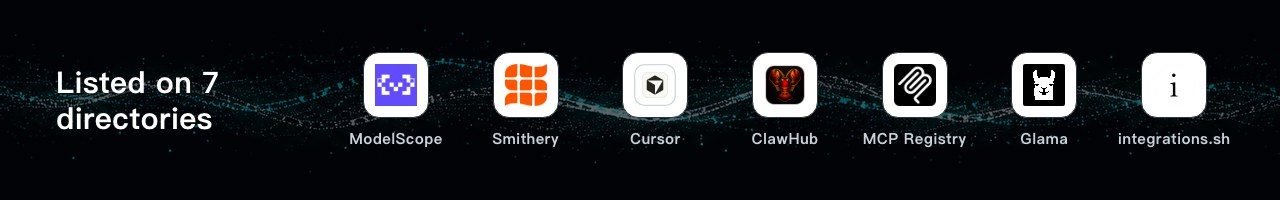
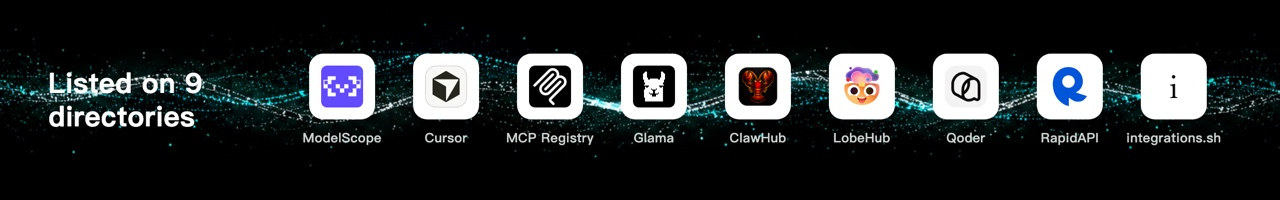
Profile: listed on 9 directories — drop Smithery, add LobeHub, Qoder, RapidAPI

Changed region(s): [[0.0, 0.24, 1.0, 0.75], [0.9062, 0.24, 0.9375, 0.27], [0.5, 0.24, 0.5312, 0.27]]

diff --git a/profile/README.zh-CN.md b/profile/README.zh-CN.md
@@ -37,10 +37,10 @@ claude mcp add --transport http everyinfra https://api.everyinfra.com/mcp \
 <picture>
   <source media="(prefers-color-scheme: dark)" srcset="assets/listed-zh-dark.jpg">
   <source media="(prefers-color-scheme: light)" srcset="assets/listed-zh-light.jpg">
-  <img alt="已上架 7 家平台: ModelScope, Smithery, Cursor, ClawHub, MCP Registry, Glama, integrations.sh" src="assets/listed-zh-light.jpg" width="100%">
+  <img alt="已上架 9 家平台: ModelScope, Cursor, MCP Registry, Glama, ClawHub, LobeHub, Qoder, RapidAPI, integrations.sh" src="assets/listed-zh-light.jpg" width="100%">
 </picture>
 
-<p align="center"><a href="https://modelscope.cn/mcp/servers/xiaoyuaimaomao/EveryInfra"><img src="assets/launch-cards/modelscope-zh.webp" width="33.33%" alt="EveryInfra 已上架 ModelScope"></a><a href="https://smithery.ai/servers/everyinfra/api"><img src="assets/launch-cards/smithery-zh.webp" width="33.33%" alt="EveryInfra 已上架 Smithery"></a><a href="https://cursor.directory/plugins/everyinfra-tiktok-instagram-amazon-data"><img src="assets/launch-cards/cursor-zh.webp" width="33.33%" alt="EveryInfra 已上架 Cursor Directory"></a><a href="https://clawhub.ai/skills/everyinfra"><img src="assets/launch-cards/clawhub-zh.webp" width="33.33%" alt="EveryInfra 已上架 ClawHub"></a><a href="https://registry.modelcontextprotocol.io/v0/servers?search=everyinfra"><img src="assets/launch-cards/mcp-registry-zh.webp" width="33.33%" alt="EveryInfra 已上架 MCP Registry"></a><a href="https://glama.ai/mcp/connectors/io.github.xiaoxihexiaoyu/everyinfra"><img src="assets/launch-cards/glama-zh.webp" width="33.33%" alt="EveryInfra 已上架 Glama"></a><a href="https://integrations.sh/everyinfra.com"><img src="assets/launch-cards/integrations-sh-zh.webp" width="33.33%" alt="EveryInfra 已上架 integrations.sh"></a></p>
+<p align="center"><a href="https://modelscope.cn/mcp/servers/xiaoyuaimaomao/EveryInfra"><img src="assets/launch-cards/modelscope-zh.webp" width="33.33%" alt="EveryInfra 已上架 ModelScope"></a><a href="https://cursor.directory/plugins/everyinfra-tiktok-instagram-amazon-data"><img src="assets/launch-cards/cursor-zh.webp" width="33.33%" alt="EveryInfra 已上架 Cursor Directory"></a><a href="https://clawhub.ai/skills/everyinfra"><img src="assets/launch-cards/clawhub-zh.webp" width="33.33%" alt="EveryInfra 已上架 ClawHub"></a><a href="https://registry.modelcontextprotocol.io/v0/servers?search=everyinfra"><img src="assets/launch-cards/mcp-registry-zh.webp" width="33.33%" alt="EveryInfra 已上架 MCP Registry"></a><a href="https://glama.ai/mcp/connectors/io.github.xiaoxihexiaoyu/everyinfra"><img src="assets/launch-cards/glama-zh.webp" width="33.33%" alt="EveryInfra 已上架 Glama"></a><a href="https://lobehub.com/zh/mcp/everyinfra"><img src="assets/launch-cards/lobehub-zh.webp" width="33.33%" alt="EveryInfra 已上架 LobeHub"></a><a href="https://qoder.com/en/marketplace/skill?id=ed671cc1-a1c5-400e-9179-9fa7c097a3da"><img src="assets/launch-cards/qoder-zh.webp" width="33.33%" alt="EveryInfra 已上架 Qoder"></a><a href="https://rapidapi.com/xiaoxihexiaoyu/api/xiaohongshu-rednote-scraper-api"><img src="assets/launch-cards/rapidapi-zh.webp" width="33.33%" alt="EveryInfra 已上架 RapidAPI"></a><a href="https://integrations.sh/everyinfra.com"><img src="assets/launch-cards/integrations-sh-zh.webp" width="33.33%" alt="EveryInfra 已上架 integrations.sh"></a></p>
 
 ## 实时数字与活跃度
 

diff --git a/profile/README.es.md b/profile/README.es.md
@@ -37,10 +37,10 @@ claude mcp add --transport http everyinfra https://api.everyinfra.com/mcp \
 <picture>
   <source media="(prefers-color-scheme: dark)" srcset="assets/listed-es-dark.jpg">
   <source media="(prefers-color-scheme: light)" srcset="assets/listed-es-light.jpg">
-  <img alt="Disponible en 7 directorios: ModelScope, Smithery, Cursor, ClawHub, MCP Registry, Glama, integrations.sh" src="assets/listed-es-light.jpg" width="100%">
+  <img alt="Disponible en 9 directorios: ModelScope, Cursor, MCP Registry, Glama, ClawHub, LobeHub, Qoder, RapidAPI, integrations.sh" src="assets/listed-es-light.jpg" width="100%">
 </picture>
 
-<p align="center"><a href="https://modelscope.cn/mcp/servers/xiaoyuaimaomao/EveryInfra"><img src="assets/launch-cards/modelscope-es.webp" width="33.33%" alt="EveryInfra en ModelScope"></a><a href="https://smithery.ai/servers/everyinfra/api"><img src="assets/launch-cards/smithery-es.webp" width="33.33%" alt="EveryInfra en Smithery"></a><a href="https://cursor.directory/plugins/everyinfra-tiktok-instagram-amazon-data"><img src="assets/launch-cards/cursor-es.webp" width="33.33%" alt="EveryInfra en Cursor Directory"></a><a href="https://clawhub.ai/skills/everyinfra"><img src="assets/launch-cards/clawhub-es.webp" width="33.33%" alt="EveryInfra en ClawHub"></a><a href="https://registry.modelcontextprotocol.io/v0/servers?search=everyinfra"><img src="assets/launch-cards/mcp-registry-es.webp" width="33.33%" alt="EveryInfra en MCP Registry"></a><a href="https://glama.ai/mcp/connectors/io.github.xiaoxihexiaoyu/everyinfra"><img src="assets/launch-cards/glama-es.webp" width="33.33%" alt="EveryInfra en Glama"></a><a href="https://integrations.sh/everyinfra.com"><img src="assets/launch-cards/integrations-sh-es.webp" width="33.33%" alt="EveryInfra en integrations.sh"></a></p>
+<p align="center"><a href="https://modelscope.cn/mcp/servers/xiaoyuaimaomao/EveryInfra"><img src="assets/launch-cards/modelscope-es.webp" width="33.33%" alt="EveryInfra en ModelScope"></a><a href="https://cursor.directory/plugins/everyinfra-tiktok-instagram-amazon-data"><img src="assets/launch-cards/cursor-es.webp" width="33.33%" alt="EveryInfra en Cursor Directory"></a><a href="https://clawhub.ai/skills/everyinfra"><img src="assets/launch-cards/clawhub-es.webp" width="33.33%" alt="EveryInfra en ClawHub"></a><a href="https://registry.modelcontextprotocol.io/v0/servers?search=everyinfra"><img src="assets/launch-cards/mcp-registry-es.webp" width="33.33%" alt="EveryInfra en MCP Registry"></a><a href="https://glama.ai/mcp/connectors/io.github.xiaoxihexiaoyu/everyinfra"><img src="assets/launch-cards/glama-es.webp" width="33.33%" alt="EveryInfra en Glama"></a><a href="https://lobehub.com/mcp/everyinfra"><img src="assets/launch-cards/lobehub-es.webp" width="33.33%" alt="EveryInfra en LobeHub"></a><a href="https://qoder.com/en/marketplace/skill?id=ed671cc1-a1c5-400e-9179-9fa7c097a3da"><img src="assets/launch-cards/qoder-es.webp" width="33.33%" alt="EveryInfra en Qoder"></a><a href="https://rapidapi.com/xiaoxihexiaoyu/api/xiaohongshu-rednote-scraper-api"><img src="assets/launch-cards/rapidapi-es.webp" width="33.33%" alt="EveryInfra en RapidAPI"></a><a href="https://integrations.sh/everyinfra.com"><img src="assets/launch-cards/integrations-sh-es.webp" width="33.33%" alt="EveryInfra en integrations.sh"></a></p>
 
 ## Cifras en vivo y actividad
 

diff --git a/profile/README.md b/profile/README.md
@@ -37,10 +37,10 @@ claude mcp add --transport http everyinfra https://api.everyinfra.com/mcp \
 <picture>
   <source media="(prefers-color-scheme: dark)" srcset="assets/listed-en-dark.jpg">
   <source media="(prefers-color-scheme: light)" srcset="assets/listed-en-light.jpg">
-  <img alt="Listed on 7 directories: ModelScope, Smithery, Cursor, ClawHub, MCP Registry, Glama, integrations.sh" src="assets/listed-en-light.jpg" width="100%">
+  <img alt="Listed on 9 directories: ModelScope, Cursor, MCP Registry, Glama, ClawHub, LobeHub, Qoder, RapidAPI, integrations.sh" src="assets/listed-en-light.jpg" width="100%">
 </picture>
 
-<p align="center"><a href="https://modelscope.cn/mcp/servers/xiaoyuaimaomao/EveryInfra"><img src="assets/launch-cards/modelscope-en.webp" width="33.33%" alt="EveryInfra on ModelScope"></a><a href="https://smithery.ai/servers/everyinfra/api"><img src="assets/launch-cards/smithery-en.webp" width="33.33%" alt="EveryInfra on Smithery"></a><a href="https://cursor.directory/plugins/everyinfra-tiktok-instagram-amazon-data"><img src="assets/launch-cards/cursor-en.webp" width="33.33%" alt="EveryInfra on Cursor Directory"></a><a href="https://clawhub.ai/skills/everyinfra"><img src="assets/launch-cards/clawhub-en.webp" width="33.33%" alt="EveryInfra on ClawHub"></a><a href="https://registry.modelcontextprotocol.io/v0/servers?search=everyinfra"><img src="assets/launch-cards/mcp-registry-en.webp" width="33.33%" alt="EveryInfra on MCP Registry"></a><a href="https://glama.ai/mcp/connectors/io.github.xiaoxihexiaoyu/everyinfra"><img src="assets/launch-cards/glama-en.webp" width="33.33%" alt="EveryInfra on Glama"></a><a href="https://integrations.sh/everyinfra.com"><img src="assets/launch-cards/integrations-sh-en.webp" width="33.33%" alt="EveryInfra on integrations.sh"></a></p>
+<p align="center"><a href="https://modelscope.cn/mcp/servers/xiaoyuaimaomao/EveryInfra"><img src="assets/launch-cards/modelscope-en.webp" width="33.33%" alt="EveryInfra on ModelScope"></a><a href="https://cursor.directory/plugins/everyinfra-tiktok-instagram-amazon-data"><img src="assets/launch-cards/cursor-en.webp" width="33.33%" alt="EveryInfra on Cursor Directory"></a><a href="https://clawhub.ai/skills/everyinfra"><img src="assets/launch-cards/clawhub-en.webp" width="33.33%" alt="EveryInfra on ClawHub"></a><a href="https://registry.modelcontextprotocol.io/v0/servers?search=everyinfra"><img src="assets/launch-cards/mcp-registry-en.webp" width="33.33%" alt="EveryInfra on MCP Registry"></a><a href="https://glama.ai/mcp/connectors/io.github.xiaoxihexiaoyu/everyinfra"><img src="assets/launch-cards/glama-en.webp" width="33.33%" alt="EveryInfra on Glama"></a><a href="https://lobehub.com/mcp/everyinfra"><img src="assets/launch-cards/lobehub-en.webp" width="33.33%" alt="EveryInfra on LobeHub"></a><a href="https://qoder.com/en/marketplace/skill?id=ed671cc1-a1c5-400e-9179-9fa7c097a3da"><img src="assets/launch-cards/qoder-en.webp" width="33.33%" alt="EveryInfra on Qoder"></a><a href="https://rapidapi.com/xiaoxihexiaoyu/api/xiaohongshu-rednote-scraper-api"><img src="assets/launch-cards/rapidapi-en.webp" width="33.33%" alt="EveryInfra on RapidAPI"></a><a href="https://integrations.sh/everyinfra.com"><img src="assets/launch-cards/integrations-sh-en.webp" width="33.33%" alt="EveryInfra on integrations.sh"></a></p>
 
 ## Live numbers and activity
 
